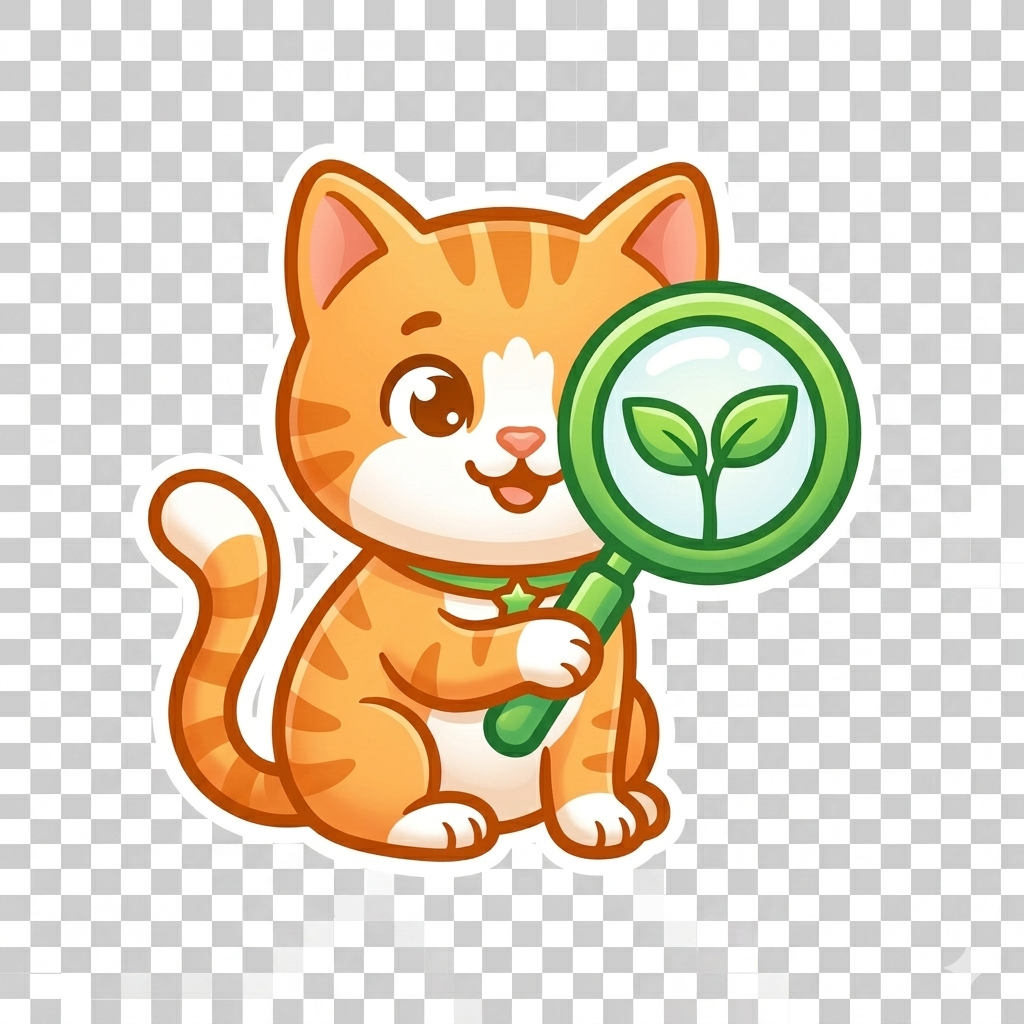
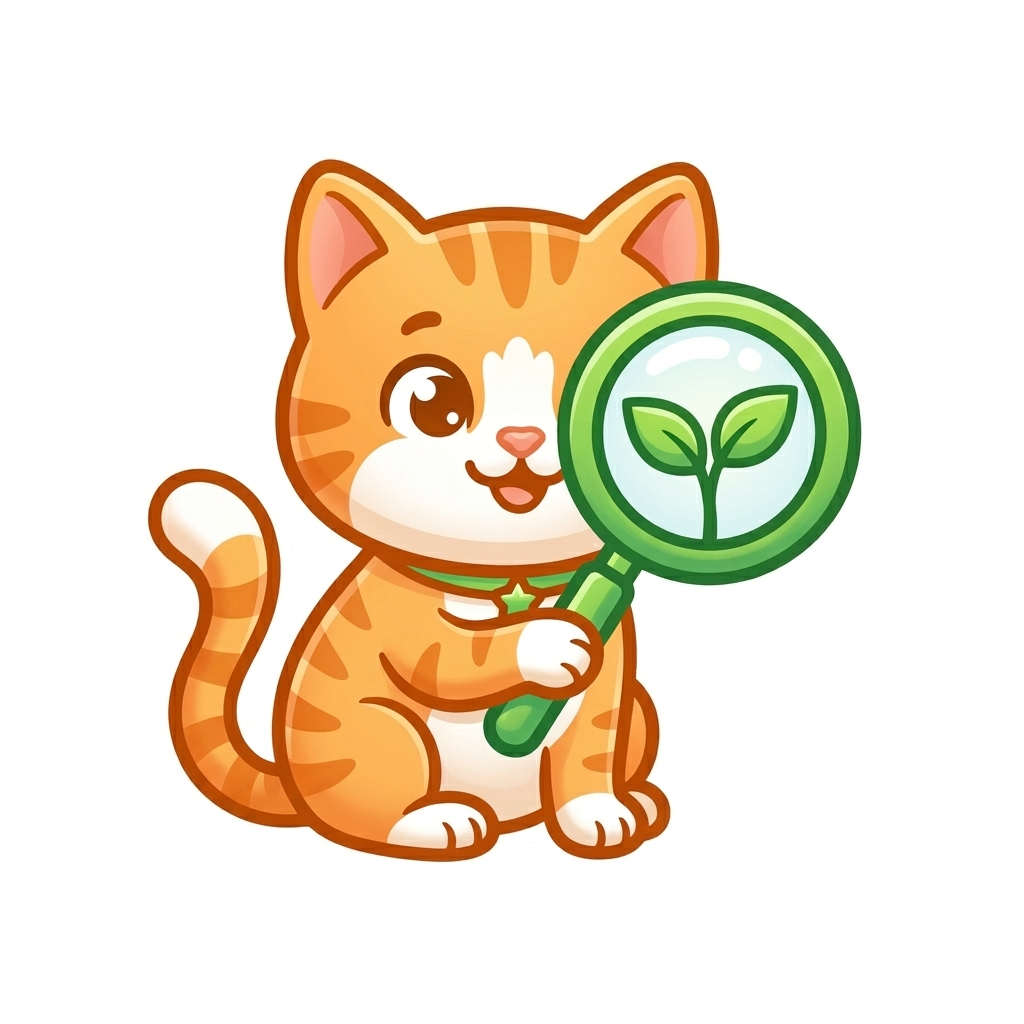
updated cat emoji to sprout cat

diff --git a/frontend/src/components/upload/FileDropzone.tsx b/frontend/src/components/upload/FileDropzone.tsx
@@ -1,4 +1,5 @@
 import React from "react";
+import sproutCat from "../../assets/sprout-cat.png";
 
 interface FileDropzoneProps {
   onFileSelect: (file: File) => void;
@@ -17,7 +18,14 @@ export function FileDropzone({ onFileSelect, disabled = false }: FileDropzonePro
     <div className={`text-center p-12 border-4 border-dashed rounded-3xl transition-colors ${
       disabled ? "border-slate-200 bg-slate-50 cursor-not-allowed" : "border-green-300 bg-green-50 hover:bg-green-100 cursor-pointer"
     }`}>
-      <div className="text-6xl mb-4">🐈</div>
+      <div className="flex justify-center mb-4">
+        <img 
+          src={sproutCat} 
+          alt="Sprout Cat Mascot" 
+          className={`w-48 h-48 object-contain ${disabled ? "grayscale opacity-50" : ""}`}
+        />
+      </div>
+      
       <h2 className="text-2xl font-extrabold text-green-800 mb-2">Upload your Scratch Game!</h2>
       <p className="text-green-600 mb-6 font-medium">Drop your .sb3 file here, or click to browse.</p>
       